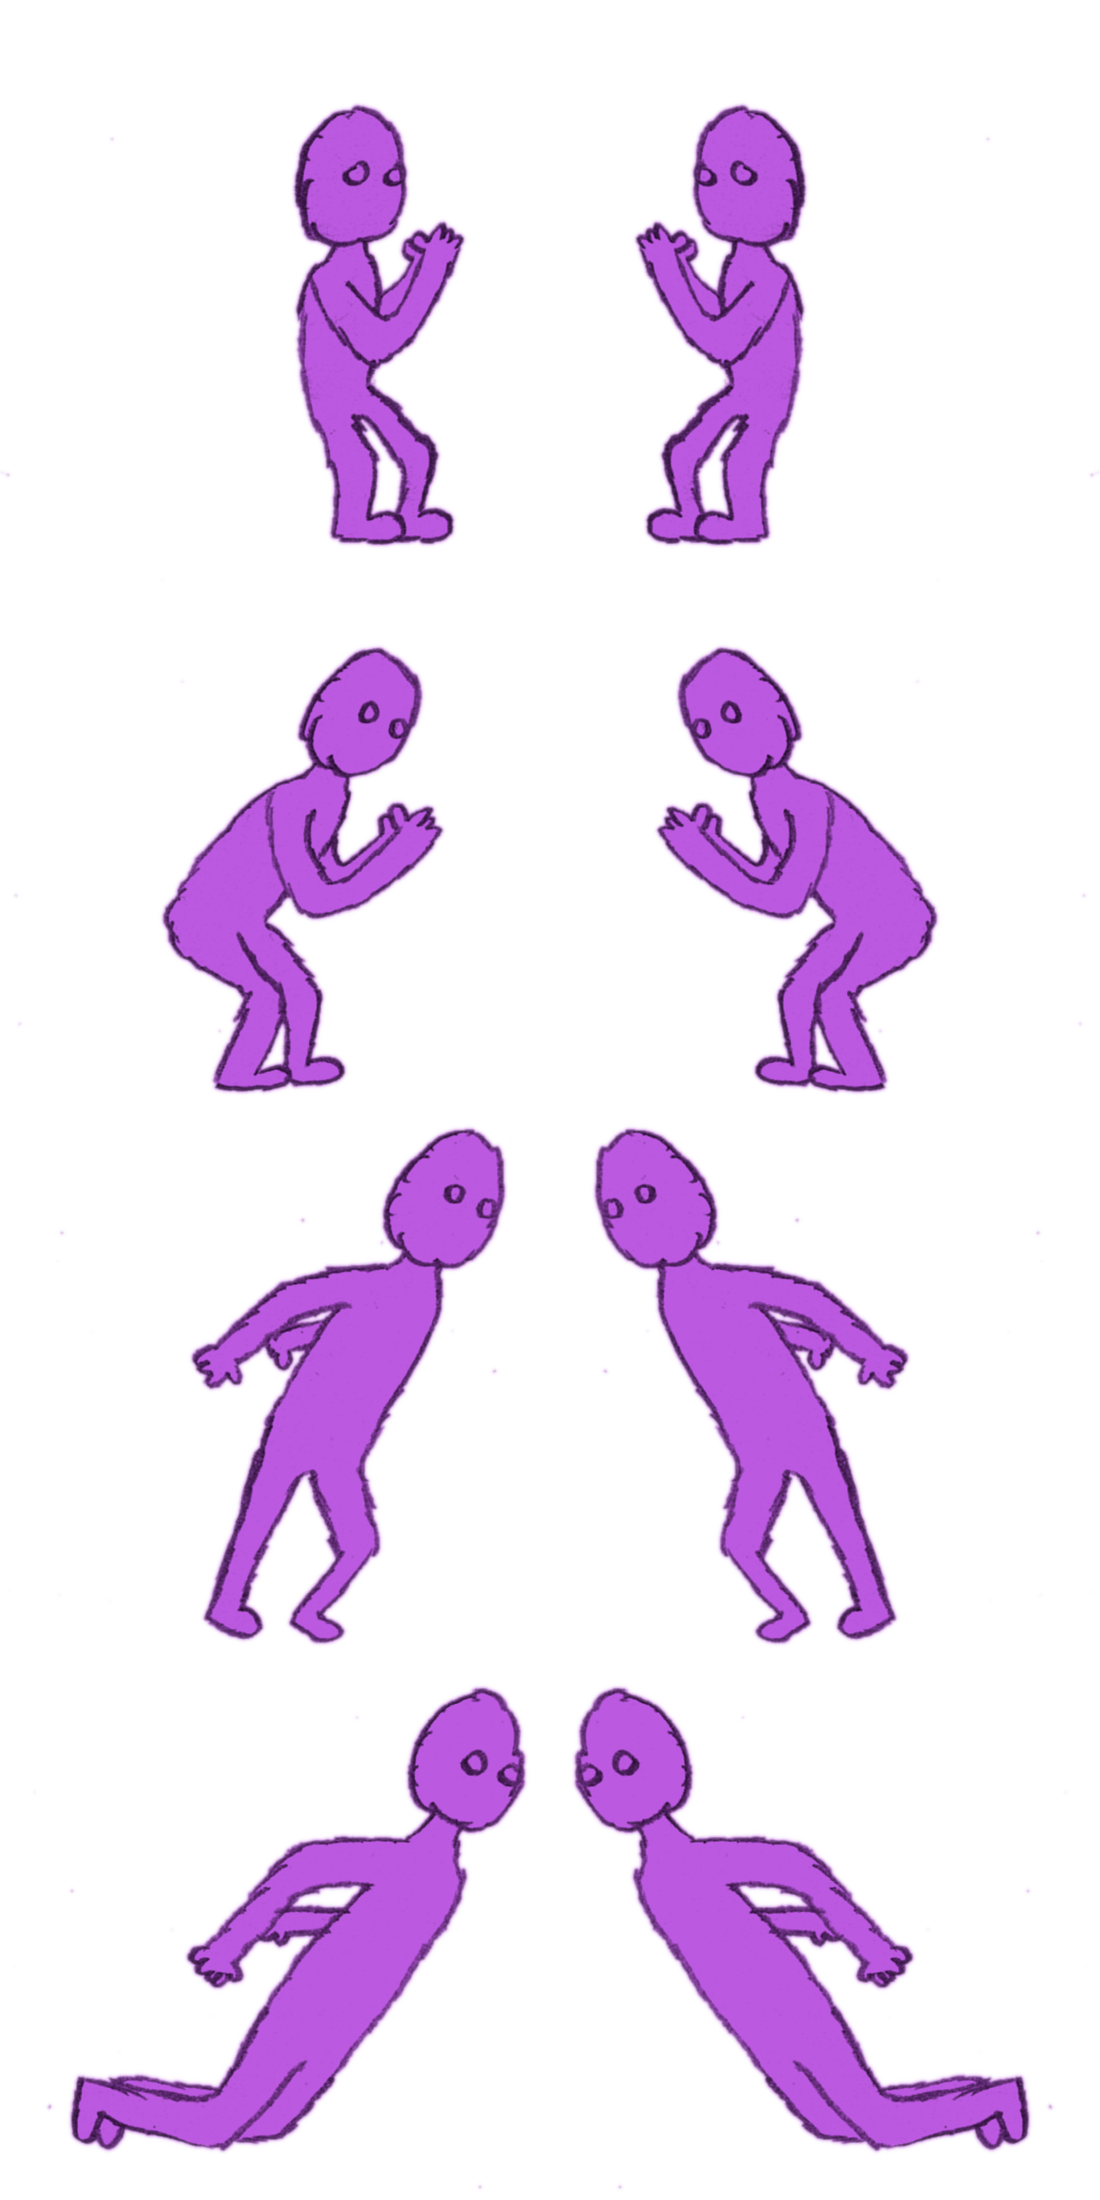
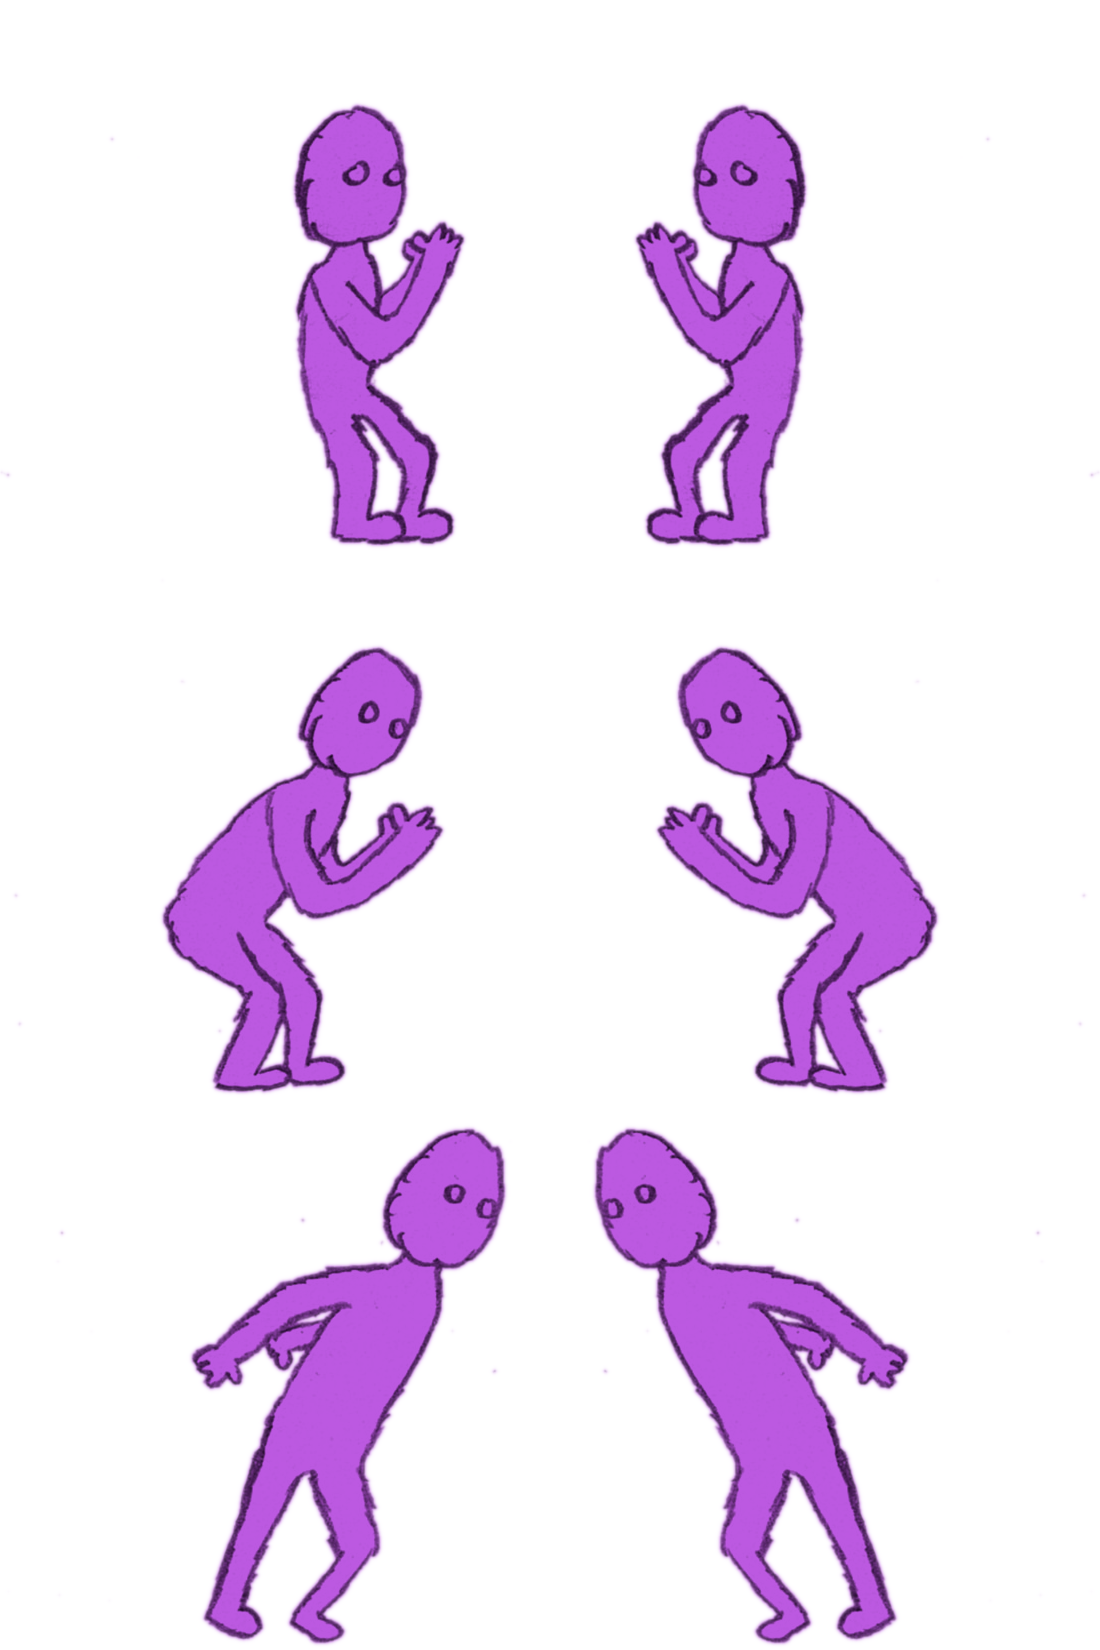
Add more frames to the jumping mechanics

Changed region(s): [[0.0618, 0.0309, 0.4945, 1.0], [0.5255, 0.0309, 0.9582, 1.0]]

diff --git a/src/main.js b/src/main.js
@@ -109,27 +109,42 @@
 
 		Player.animationCycles += 1;
 
+		let frame;
+		if(Player.animationCycles % ANIMATION_CYCLES == 0) {
+			frame = Math.floor(Player.animationCycles / ANIMATION_CYCLES);
+		} else {
+			frame = null;
+		}
+
 		if(Player.animation === ANIM_JUMP) {
-			if(Player.animationCycles === 3 * ANIMATION_CYCLES) {
+			if(frame === 3) {
 				Player.velocity.x = ((Player.facing === FACING_RIGHT) ? +1 : -1) * Player.jumpSpeed;
 				Player.velocity.y -= Player.jumpPower;
-			} else if(Player.animationCycles === 4 * ANIMATION_CYCLES) {
-				Player.changeAnimation(ANIM_MIDAIR);
+				Player.changeAnimation(ANIM_FLYI);
+			}
+		} else if(Player.animation === ANIM_LAND) {
+			if(frame === 3) {
+				Player.changeAnimation(ANIM_IDLE);
 			}
 		} else {
-			if(Player.animationCycles === 4 * ANIMATION_CYCLES) Player.animationCycles = 0;
+			if(frame === 4) Player.animationCycles = 0;
 		}
 
 		Player.position.x += CYCLE_SECONDS * Player.velocity.x;
 
 		if(Player.velocity.y != 0) {
 			Player.velocity.y += CYCLE_SECONDS * GRAVITY;
+			if(Player.velocity.y > 0) Player.changeAnimation(ANIM_FALL);
+
 			Player.position.y += CYCLE_SECONDS * Player.velocity.y;
 
 			if(Player.position.y >= 0) {
 				Player.position.y = 0;
+
+				Player.velocity.x = 0;
 				Player.velocity.y = 0;
-				Player.changeAnimation(ANIM_IDLE);
+
+				Player.changeAnimation(ANIM_LAND);
 			}
 		}
 	};
@@ -232,7 +247,9 @@
 		img_chara[ANIM_IDLE] = Assets.addGfx("character-idle-550.png");
 		img_chara[ANIM_WALK] = Assets.addGfx("character-walk-550.png");
 		img_chara[ANIM_JUMP] = Assets.addGfx("character-jump-550.png");
-		img_chara[ANIM_MIDAIR] = Assets.addGfx("character-midair-550.png");
+		img_chara[ANIM_FLYI] = Assets.addGfx("character-flyi-550.png");
+		img_chara[ANIM_FALL] = Assets.addGfx("character-fall-550.png");
+		img_chara[ANIM_LAND] = Assets.addGfx("character-land-550.png");
 
 		window.addEventListener('resize', resize);
 		resize();

diff --git a/src/player.js b/src/player.js
@@ -21,7 +21,9 @@ const FACING_RIGHT = 0;
 const ANIM_IDLE = 0;
 const ANIM_WALK = 1;
 const ANIM_JUMP = 2;
-const ANIM_MIDAIR = 3;
+const ANIM_FLYI = 3;
+const ANIM_FALL = 4;
+const ANIM_LAND = 5;
 
 function __player() {
 	let self = this;
